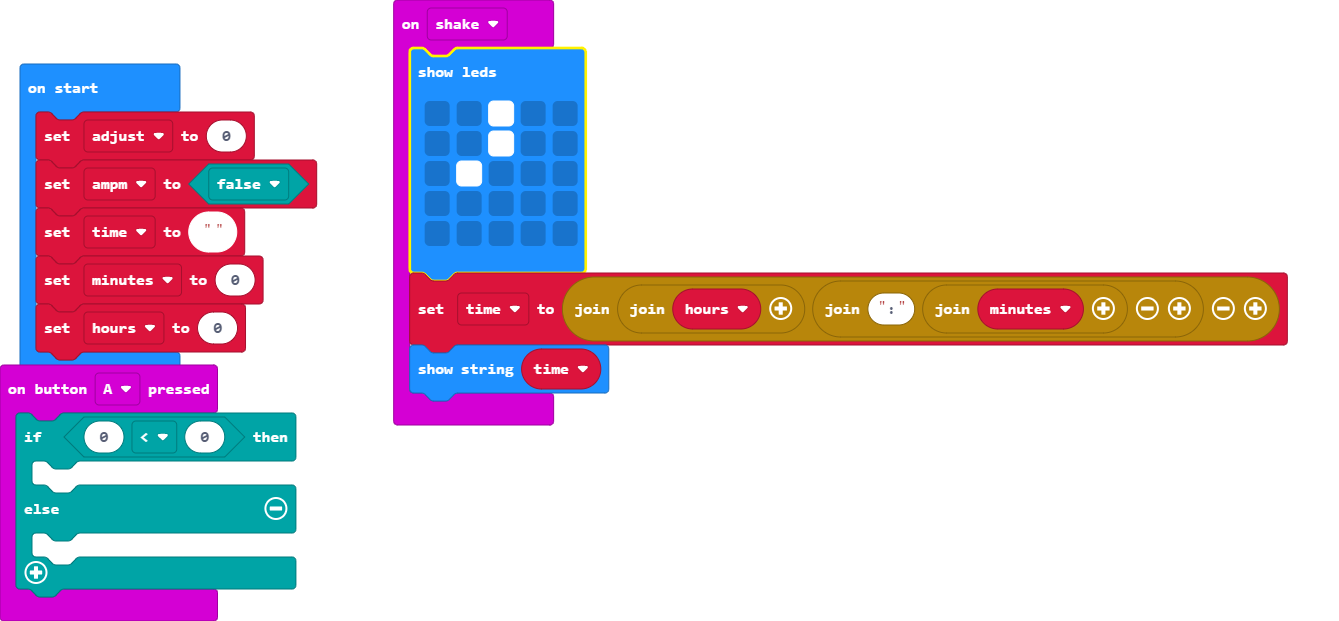
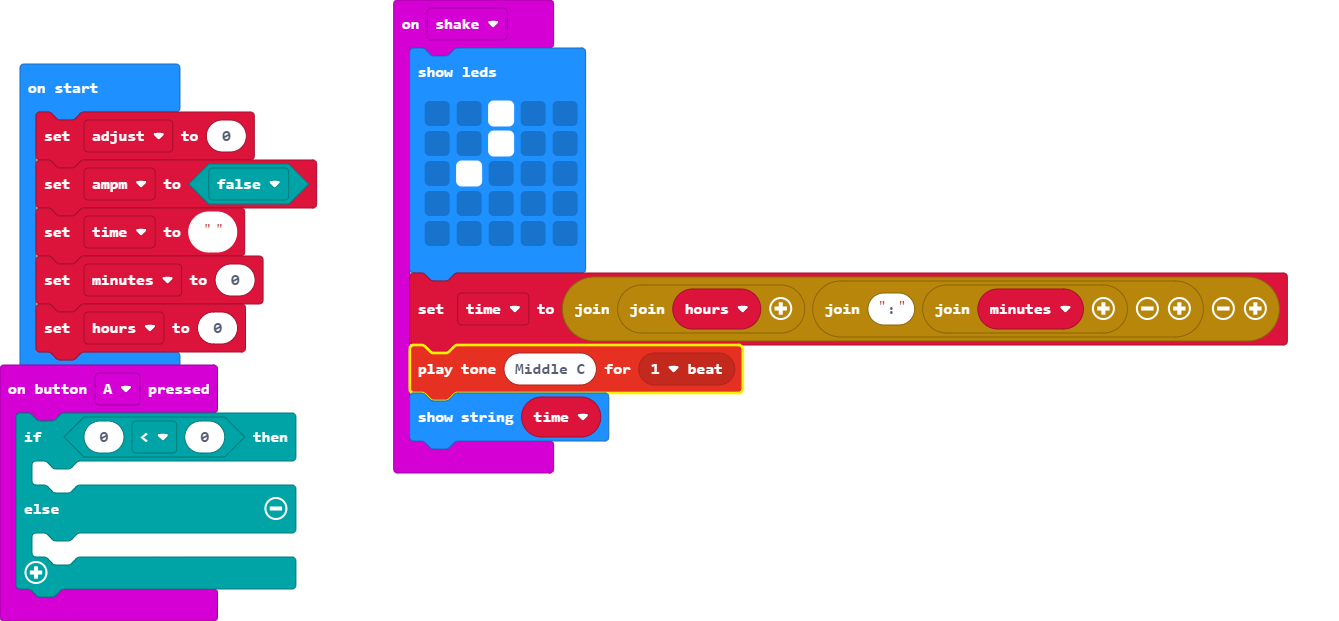
Update main.blocks, main.ts

Changed region(s): [[0.2756, 0.5507, 0.5818, 0.7649], [0.3062, 0.4283, 0.4287, 0.4589], [0.3062, 0.0612, 0.4287, 0.0918]]

diff --git a/main.ts b/main.ts
@@ -14,6 +14,7 @@ input.onGesture(Gesture.Shake, function () {
         . . . . .
         `)
     time = "" + hours + (":" + ("" + minutes))
+    music.playTone(262, music.beat(BeatFraction.Whole))
     basic.showString(time)
 })
 let hours = 0
